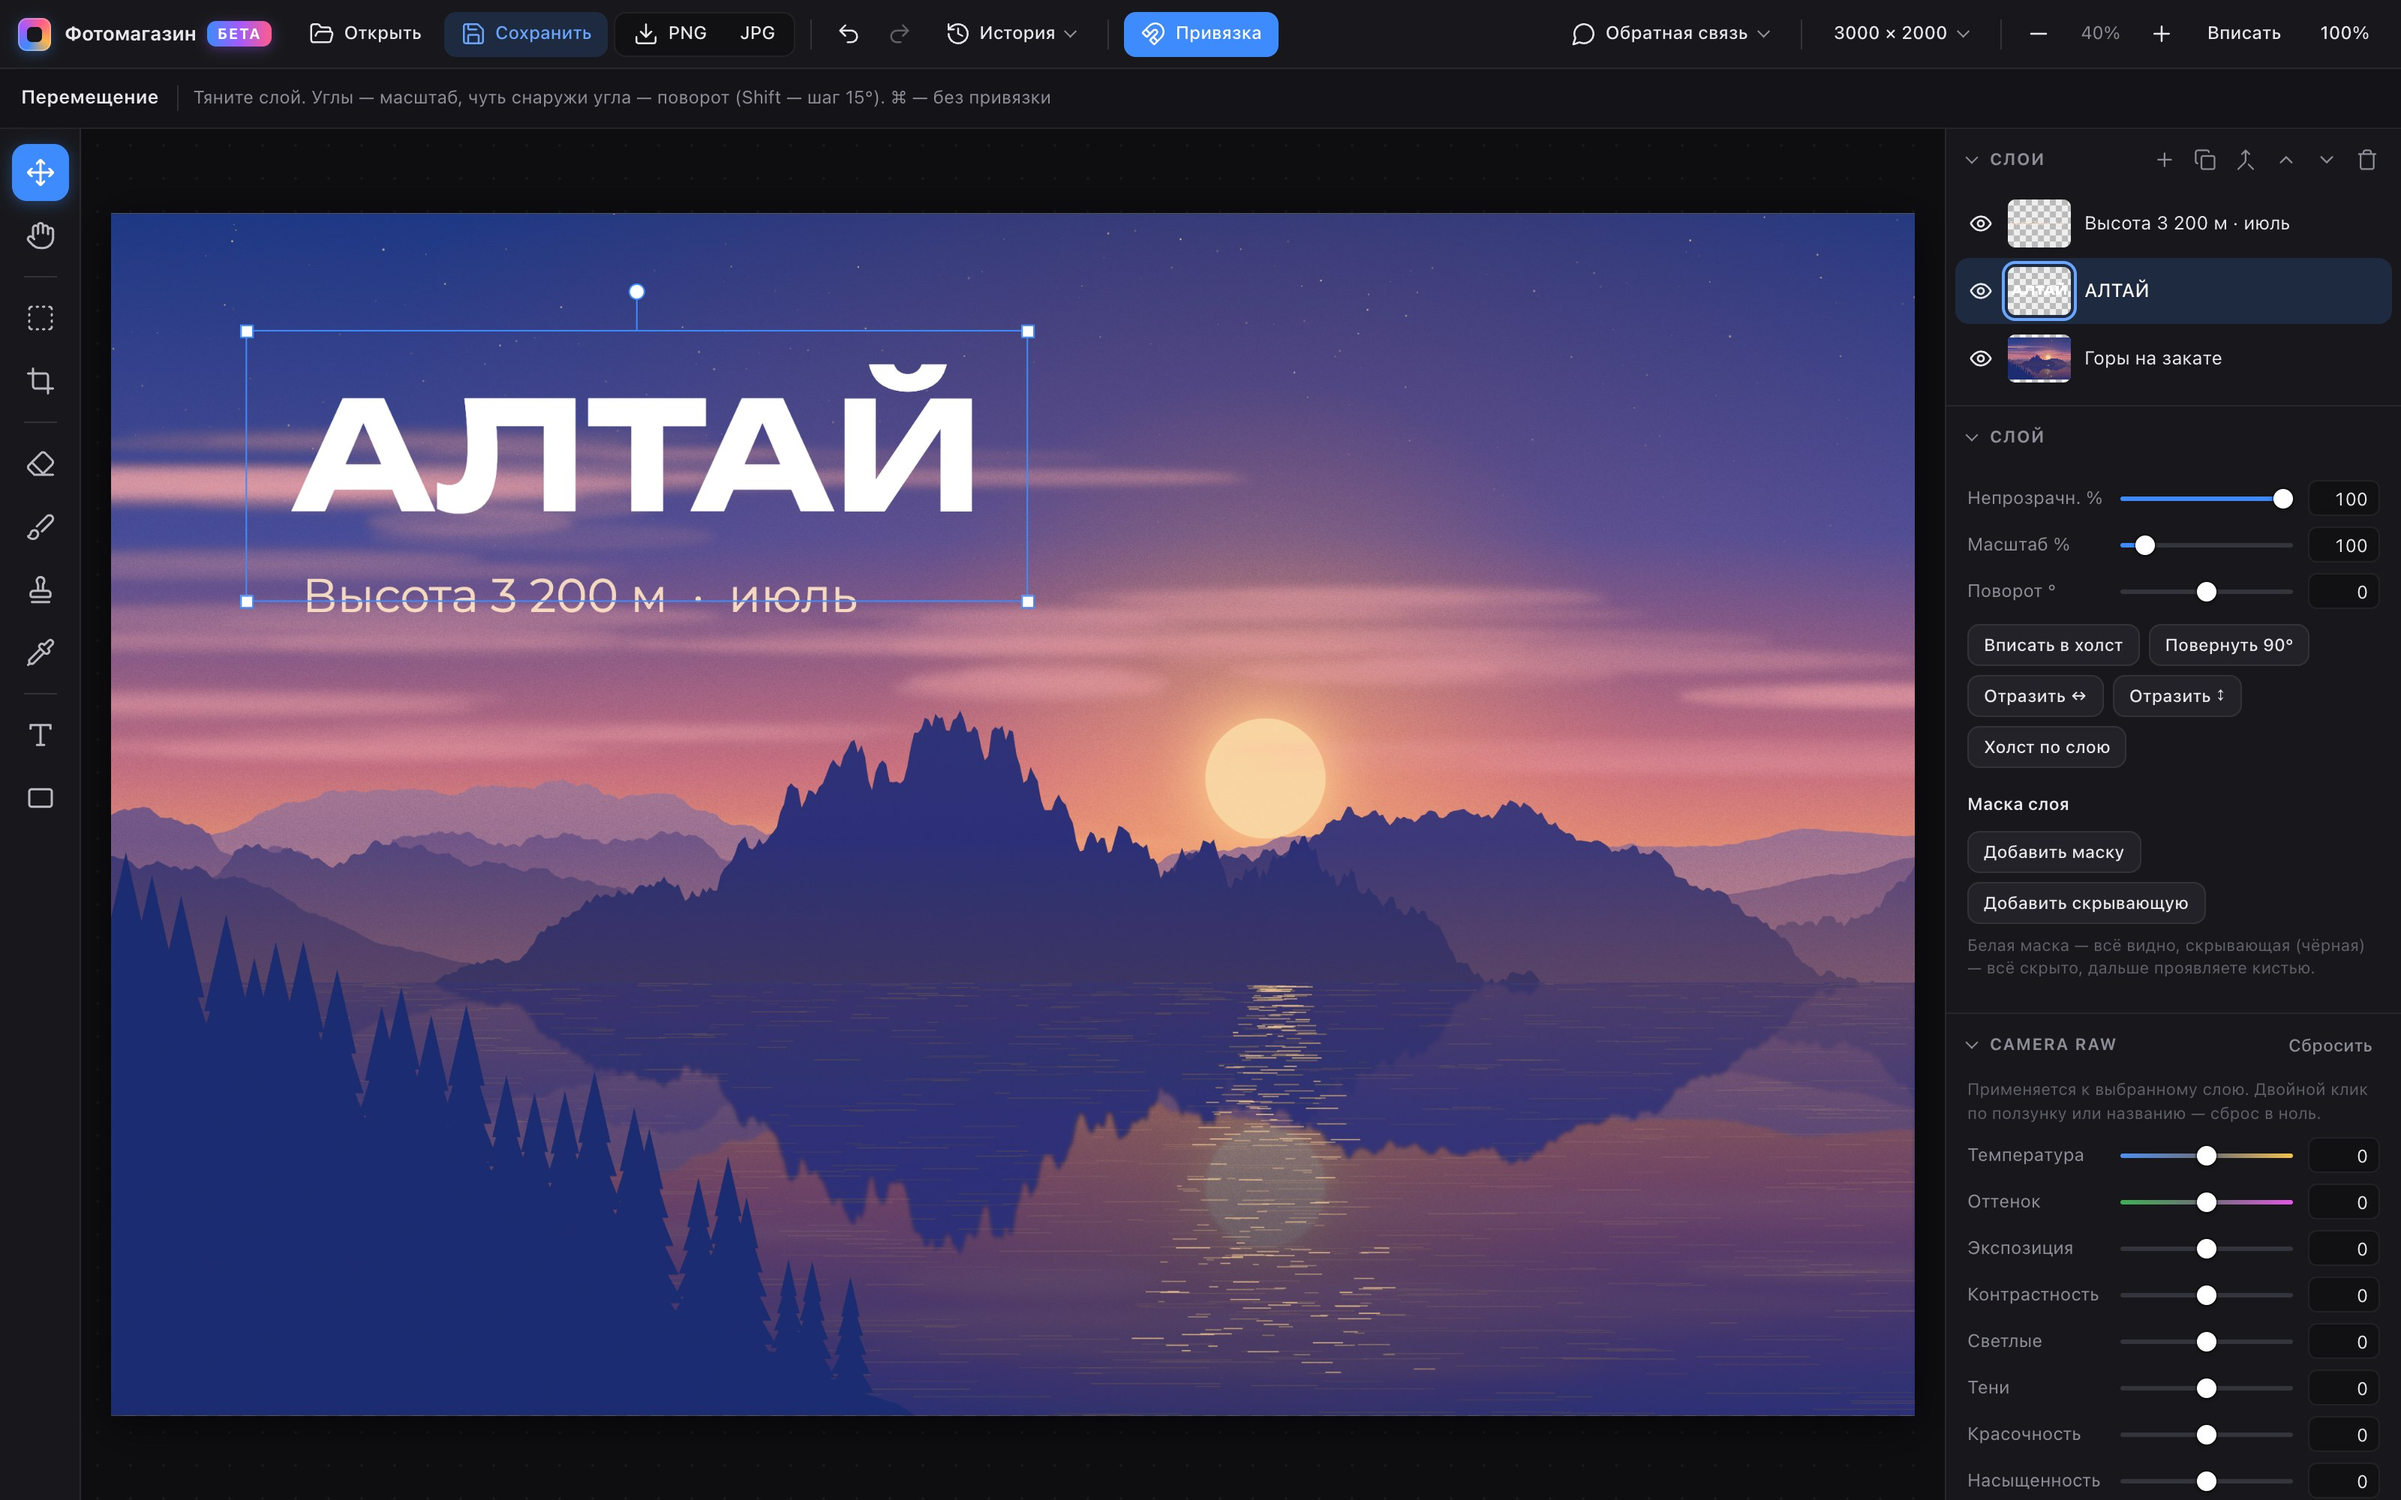
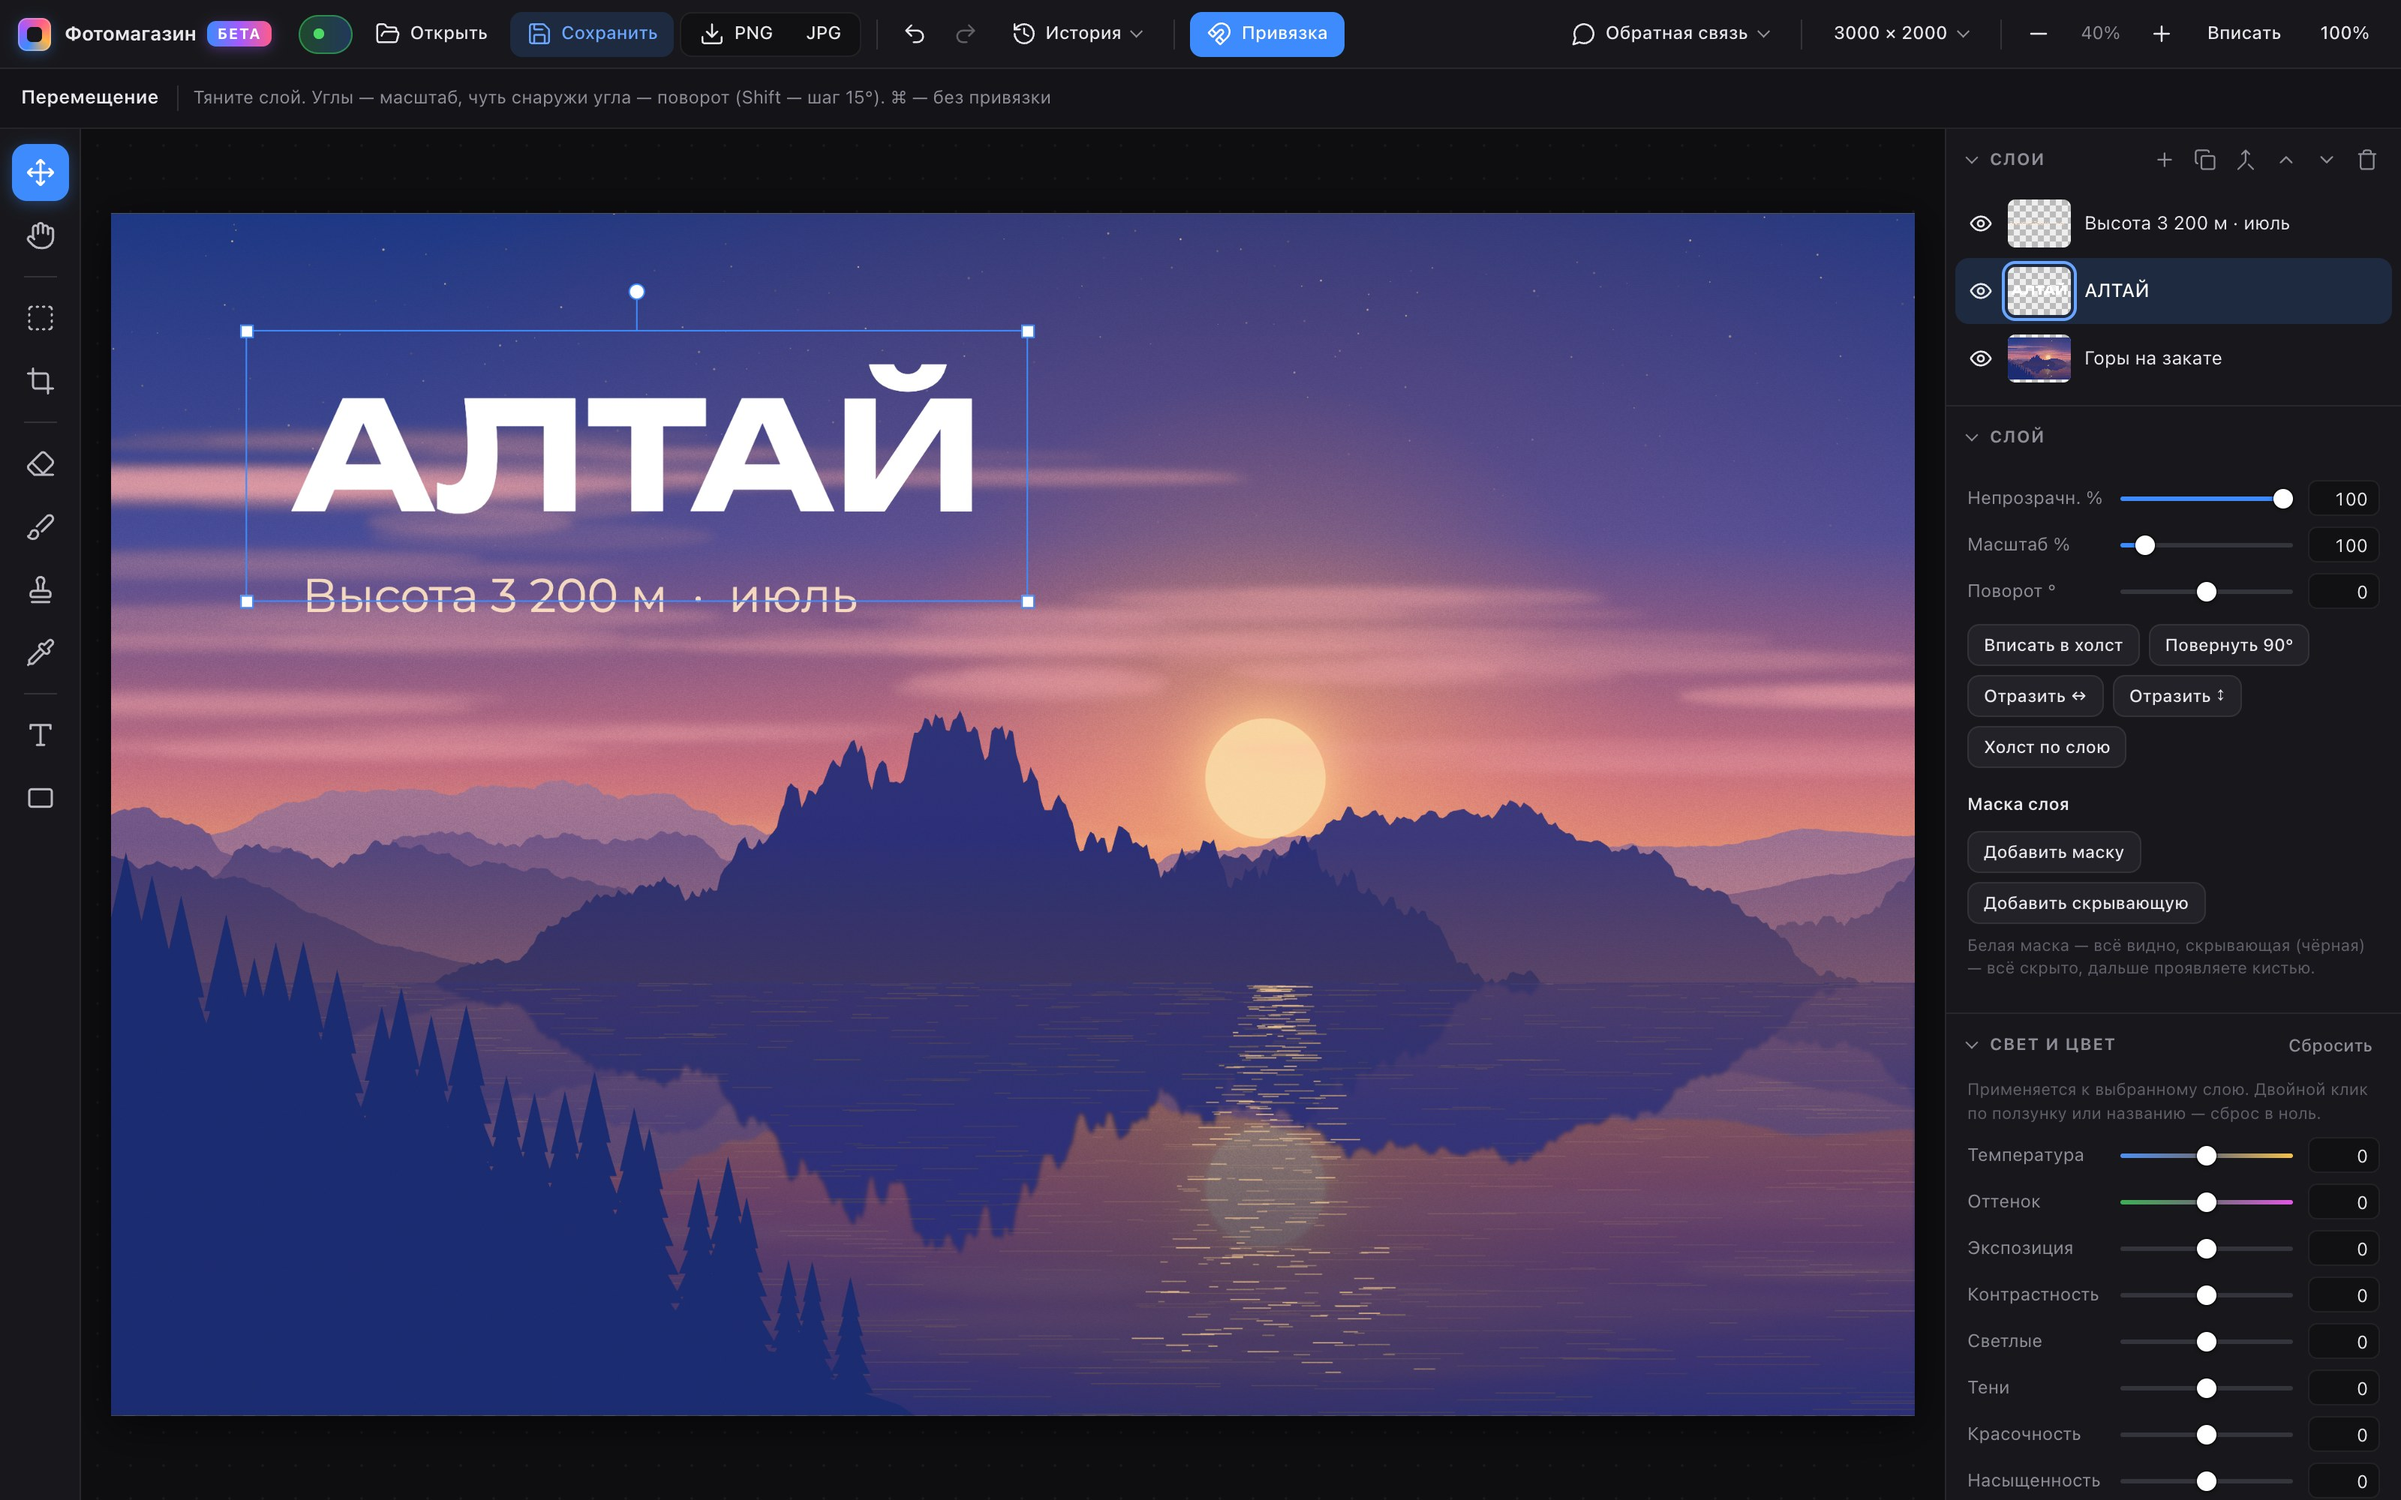
Сайт: «Camera Raw» → «Свет и цвет», новые скриншоты

Changed region(s): [[0.375, 0.0, 0.5625, 0.062], [0.125, 0.0, 0.3125, 0.062], [0.8438, 0.682, 0.875, 0.713]]

diff --git a/index.html b/index.html
@@ -4,11 +4,11 @@
 <meta charset="utf-8">
 <meta name="viewport" content="width=device-width, initial-scale=1">
 <title>Фотомагазин — фоторедактор со слоями прямо в браузере</title>
-<meta name="description" content="Бесплатный фоторедактор со слоями, масками, Camera Raw, кадрированием, выделением и текстом. Один файл, работает в браузере — без установки и регистрации.">
+<meta name="description" content="Бесплатный фоторедактор со слоями, масками, коррекцией света и цвета, кадрированием, выделением и текстом. Один файл, работает в браузере — без установки и регистрации.">
 <meta name="theme-color" content="#000000">
 <meta property="og:type" content="website">
 <meta property="og:title" content="Фотомагазин — фоторедактор со слоями">
-<meta property="og:description" content="Слои, маски, Camera Raw, кадрирование и текст. Один файл, работает в браузере. Бесплатно.">
+<meta property="og:description" content="Слои, маски, свет и цвет, кадрирование и текст. Один файл, работает в браузере. Бесплатно.">
 <meta property="og:image" content="assets/hero.jpg">
 <link rel="icon" href="assets/icon.svg" type="image/svg+xml">
 <link rel="preconnect" href="https://fonts.googleapis.com">
@@ -23,7 +23,7 @@
   <div class="nav-in">
     <a class="brand" href="#top"><i class="logo"></i>Фотомагазин<span class="beta">Бета</span></a>
     <div class="links">
-      <a href="#layers">Слои</a><a href="#raw">Camera Raw</a><a href="#crop">Инструменты</a><a href="#together">Участвовать</a><a href="#faq">Вопросы</a>
+      <a href="#layers">Слои</a><a href="#raw">Свет и цвет</a><a href="#crop">Инструменты</a><a href="#together">Участвовать</a><a href="#faq">Вопросы</a>
     </div>
     <a class="btn btn-sm" href="https://github.com/fotomagazin/fotomagazin/releases/latest/download/fotomagazin.html">Скачать</a>
   </div>
@@ -46,14 +46,14 @@
     <div class="glow" aria-hidden="true"></div>
     <div class="window" id="heroWin">
       <div class="bar"><i></i><i></i><i></i><span>Алтай.fotomag — Фотомагазин</span></div>
-      <img src="assets/hero.jpg" width="3200" height="2000" alt="Окно Фотомагазина: пейзаж с горами на закате, текстовые слои и панель Camera Raw">
+      <img src="assets/hero.jpg" width="3200" height="2000" alt="Окно Фотомагазина: пейзаж с горами на закате, текстовые слои и панель «Свет и цвет»">
     </div>
   </div>
 </header>
 
 <!-- ========== манифест ========== -->
 <section class="statement wrap">
-  <p id="statement">Слои. Маски. Camera Raw. Кадрирование. Текст. Всё, что нужно для&nbsp;фотографии, — и&nbsp;ничего лишнего.</p>
+  <p id="statement">Слои. Маски. Свет и&nbsp;цвет. Кадрирование. Текст. Всё, что нужно для&nbsp;фотографии, — и&nbsp;ничего лишнего.</p>
 </section>
 
 <section class="stats wrap">
@@ -85,12 +85,12 @@
   </div>
 </section>
 
-<!-- ========== Camera Raw ========== -->
+<!-- ========== свет и цвет ========== -->
 <section class="feature center" id="raw">
   <div class="wrap">
-    <p class="eyebrow reveal">Camera Raw</p>
+    <p class="eyebrow reveal">Коррекция фото</p>
     <h2 class="reveal" style="--d:.05s">Свет и&nbsp;цвет —<br>под&nbsp;полным контролем.</h2>
-    <p class="body narrow reveal" style="--d:.1s">Температура, экспозиция, тени, светлые, красочность — как в&nbsp;Lightroom. Плюс цветовые круги для&nbsp;теней, средних тонов и&nbsp;светов. Всё считается на&nbsp;видеокарте — мгновенно, даже на&nbsp;снимках в&nbsp;50&nbsp;мегапикселей.</p>
+    <p class="body narrow reveal" style="--d:.1s">Температура, экспозиция, контраст, тени, светлые, красочность — восемь ползунков, чтобы довести снимок до&nbsp;ума. Плюс цветовые круги для&nbsp;теней, средних тонов и&nbsp;светов. Всё считается на&nbsp;видеокарте — мгновенно, даже на&nbsp;снимках в&nbsp;50&nbsp;мегапикселей.</p>
     <div class="ba reveal" id="ba" style="--d:.15s">
       <img src="assets/after.jpg" width="2400" height="1600" alt="После обработки: тёплый яркий закат" loading="lazy">
       <div class="ba-before"><img src="assets/before.jpg" width="2400" height="1600" alt="До обработки: блёклый холодный снимок" loading="lazy"></div>
@@ -100,7 +100,7 @@
     </div>
     <p class="hint reveal">Потяните, чтобы сравнить</p>
     <div class="duo">
-      <figure class="card reveal"><img src="assets/raw.jpg" width="606" height="688" alt="Ползунки Camera Raw" loading="lazy">
+      <figure class="card reveal"><img src="assets/raw.jpg" width="606" height="688" alt="Ползунки панели «Свет и цвет»" loading="lazy">
         <figcaption><b>Восемь ползунков.</b> Двойной клик — сброс в&nbsp;ноль.</figcaption></figure>
       <figure class="card reveal" style="--d:.1s"><img src="assets/wheels.jpg" width="606" height="482" alt="Цветовые круги: тени, средние, света" loading="lazy">
         <figcaption><b>Цветовые круги.</b> Тёплые света и&nbsp;холодные тени — как в&nbsp;кино.</figcaption></figure>
